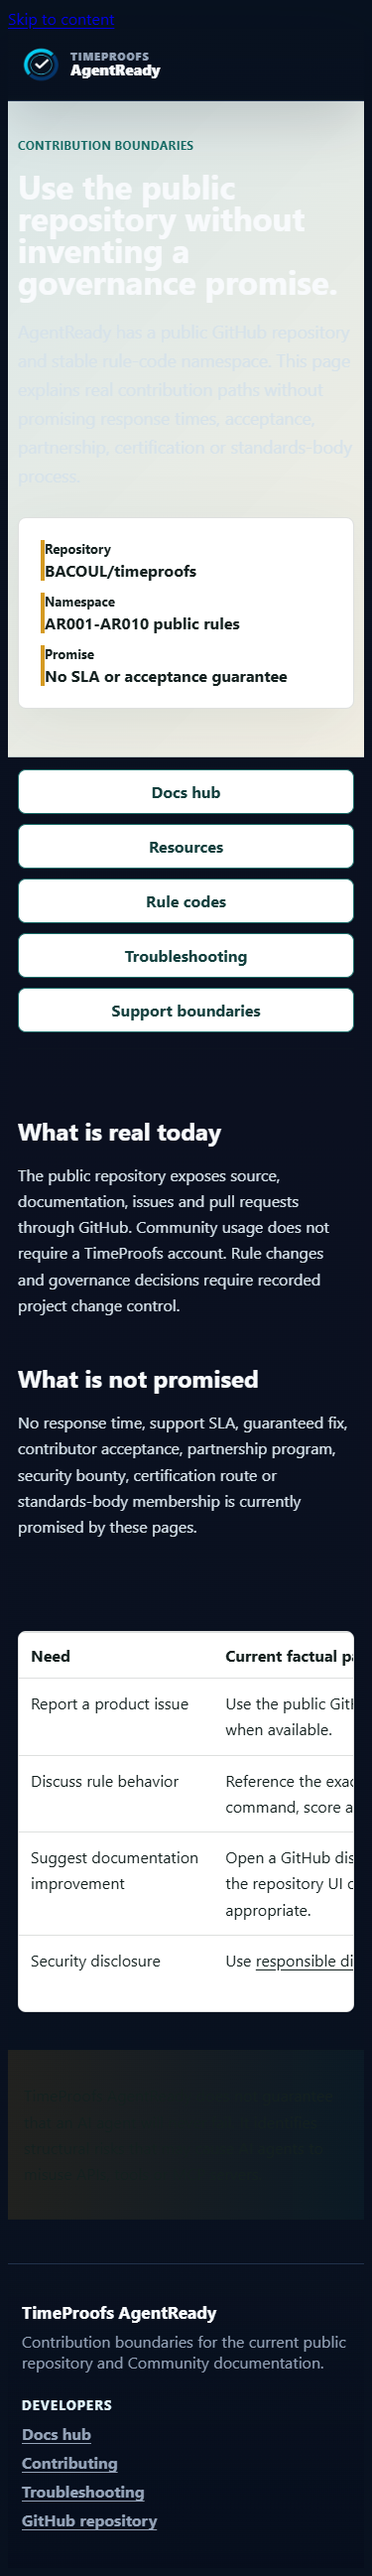
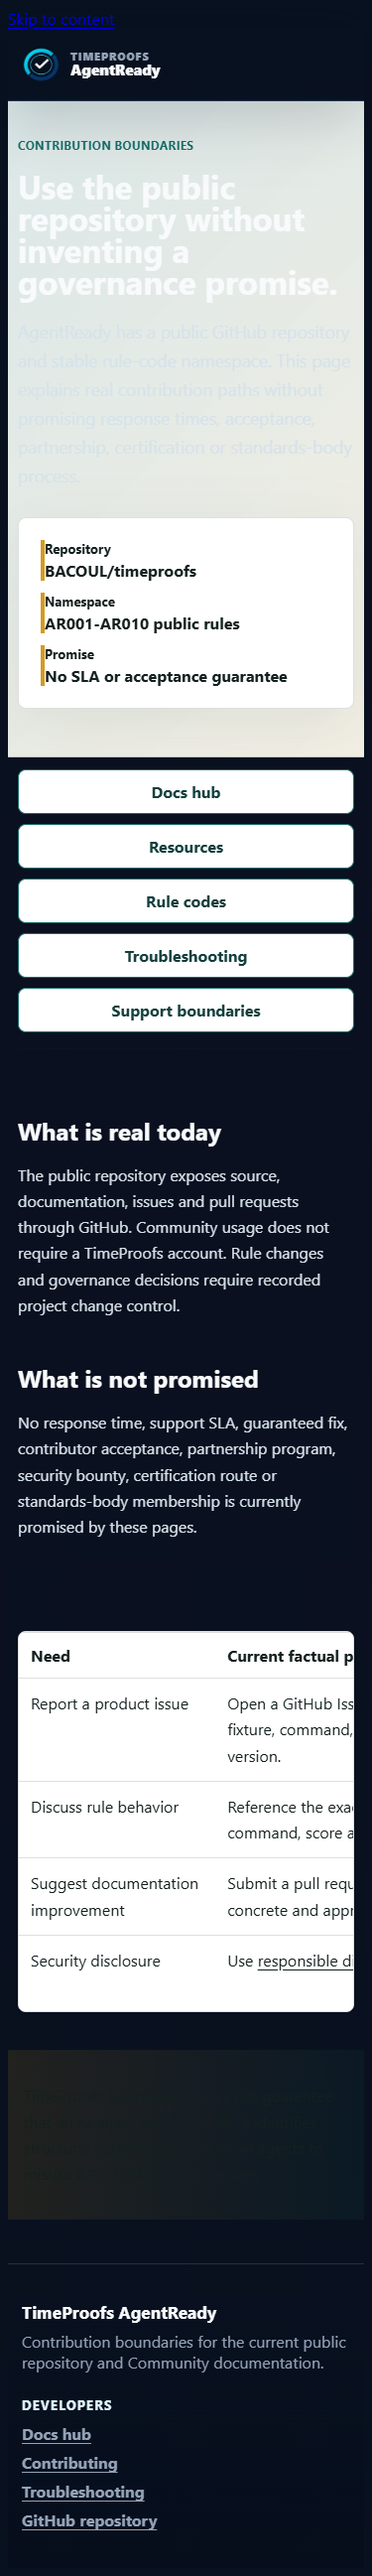
docs(site): correct developer docs review findings

Changed region(s): [[0.616, 0.6243, 0.9387, 0.7491], [0.088, 0.6867, 0.528, 0.7491]]

diff --git a/agentready-cli.html b/agentready-cli.html
@@ -89,7 +89,7 @@ npx @timeproofs/agentready@alpha --version</code></pre>
             <tr><td><code>agentready scan openapi &lt;file&gt;</code></td><td>Static OpenAPI scan with optional <code>--out</code>, <code>--min-score</code> and <code>--fail-on</code>.</td><td><code>agentready-report.md</code> and <code>agentready.json</code>.</td></tr>
             <tr><td><code>agentready scan mcp &lt;file&gt;</code></td><td>Static MCP tools JSON scan with the same policy options.</td><td><code>agentready-mcp-report.md</code> and <code>agentready-mcp.json</code>.</td></tr>
             <tr><td><code>agentready simulate &lt;agentready.json&gt; &lt;scenario.json&gt;</code></td><td>Static scenario simulation against a previously generated AgentReady result.</td><td><code>agentready-simulation.json</code>.</td></tr>
-            <tr><td><code>agentready report &lt;agentready.json&gt;</code></td><td>Render an existing result into a human-readable report.</td><td>Markdown report output.</td></tr>
+            <tr><td><code>agentready report &lt;agentready.json&gt;</code></td><td>Read an existing AgentReady JSON file and print score, status, tool count and risk counters to stdout. With <code>--json</code>, print a JSON object containing <code>summary</code> and <code>tool_count</code>.</td><td>Stdout only; this command does not write a Markdown file.</td></tr>
           </tbody>
         </table>
       </div>

diff --git a/agentready-contributing.html b/agentready-contributing.html
@@ -27,9 +27,9 @@
         <table class="agd-table">
           <thead><tr><th>Need</th><th>Current factual path</th><th>Boundary</th></tr></thead>
           <tbody>
-            <tr><td>Report a product issue</td><td>Use the public GitHub repository issue path when available.</td><td>No response time or fix guarantee.</td></tr>
+            <tr><td>Report a product issue</td><td>Open a GitHub Issue with a reproducible fixture, command, output and AgentReady version.</td><td>No response time or fix guarantee.</td></tr>
             <tr><td>Discuss rule behavior</td><td>Reference the exact AR rule code, fixture, command, score and output.</td><td>No semantic rule change without change control.</td></tr>
-            <tr><td>Suggest documentation improvement</td><td>Open a GitHub discussion path available in the repository UI or a pull request where appropriate.</td><td>No maintainer acceptance guarantee.</td></tr>
+            <tr><td>Suggest documentation improvement</td><td>Submit a pull request when the change is concrete and appropriate for the repository.</td><td>No maintainer acceptance guarantee.</td></tr>
             <tr><td>Security disclosure</td><td>Use <a href="/responsible-disclosure.html">responsible disclosure</a> guidance.</td><td>No bounty, SLA or certification promised.</td></tr>
           </tbody>
         </table>

diff --git a/docs/agentready/SITE_GLOBAL_DEVELOPER_DOCS_FOUNDATION_EVIDENCE.md b/docs/agentready/SITE_GLOBAL_DEVELOPER_DOCS_FOUNDATION_EVIDENCE.md
@@ -95,6 +95,10 @@ CLI command reference:
 - Documents only current Community commands: scan openapi, scan mcp, simulate and report.
 - Uses @timeproofs/agentready@alpha.
 - Does not document account, login, upload, hosted scanner or Pro commands.
+- Corrected `agentready report <agentready.json>` behavior: reads an existing
+  AgentReady JSON file and prints score, status, tool count and risk counters
+  to stdout. With `--json`, it prints a JSON object containing `summary` and
+  `tool_count`. It does not write a Markdown file.
 
 GitHub Action usage:
 
@@ -111,6 +115,9 @@ agentready.json and Markdown reports:
 Contribution and support:
 
 - Contribution guidance is limited to real public repository capabilities.
+- Published contribution paths are limited to opening a GitHub Issue for a
+  reproducible problem and submitting a pull request when appropriate.
+- GitHub Discussions is not presented as an available or confirmed channel.
 - No response time, SLA, support commitment, partnership, bounty, certification route or maintainer-acceptance promise is made.
 
 Community and Pro:
